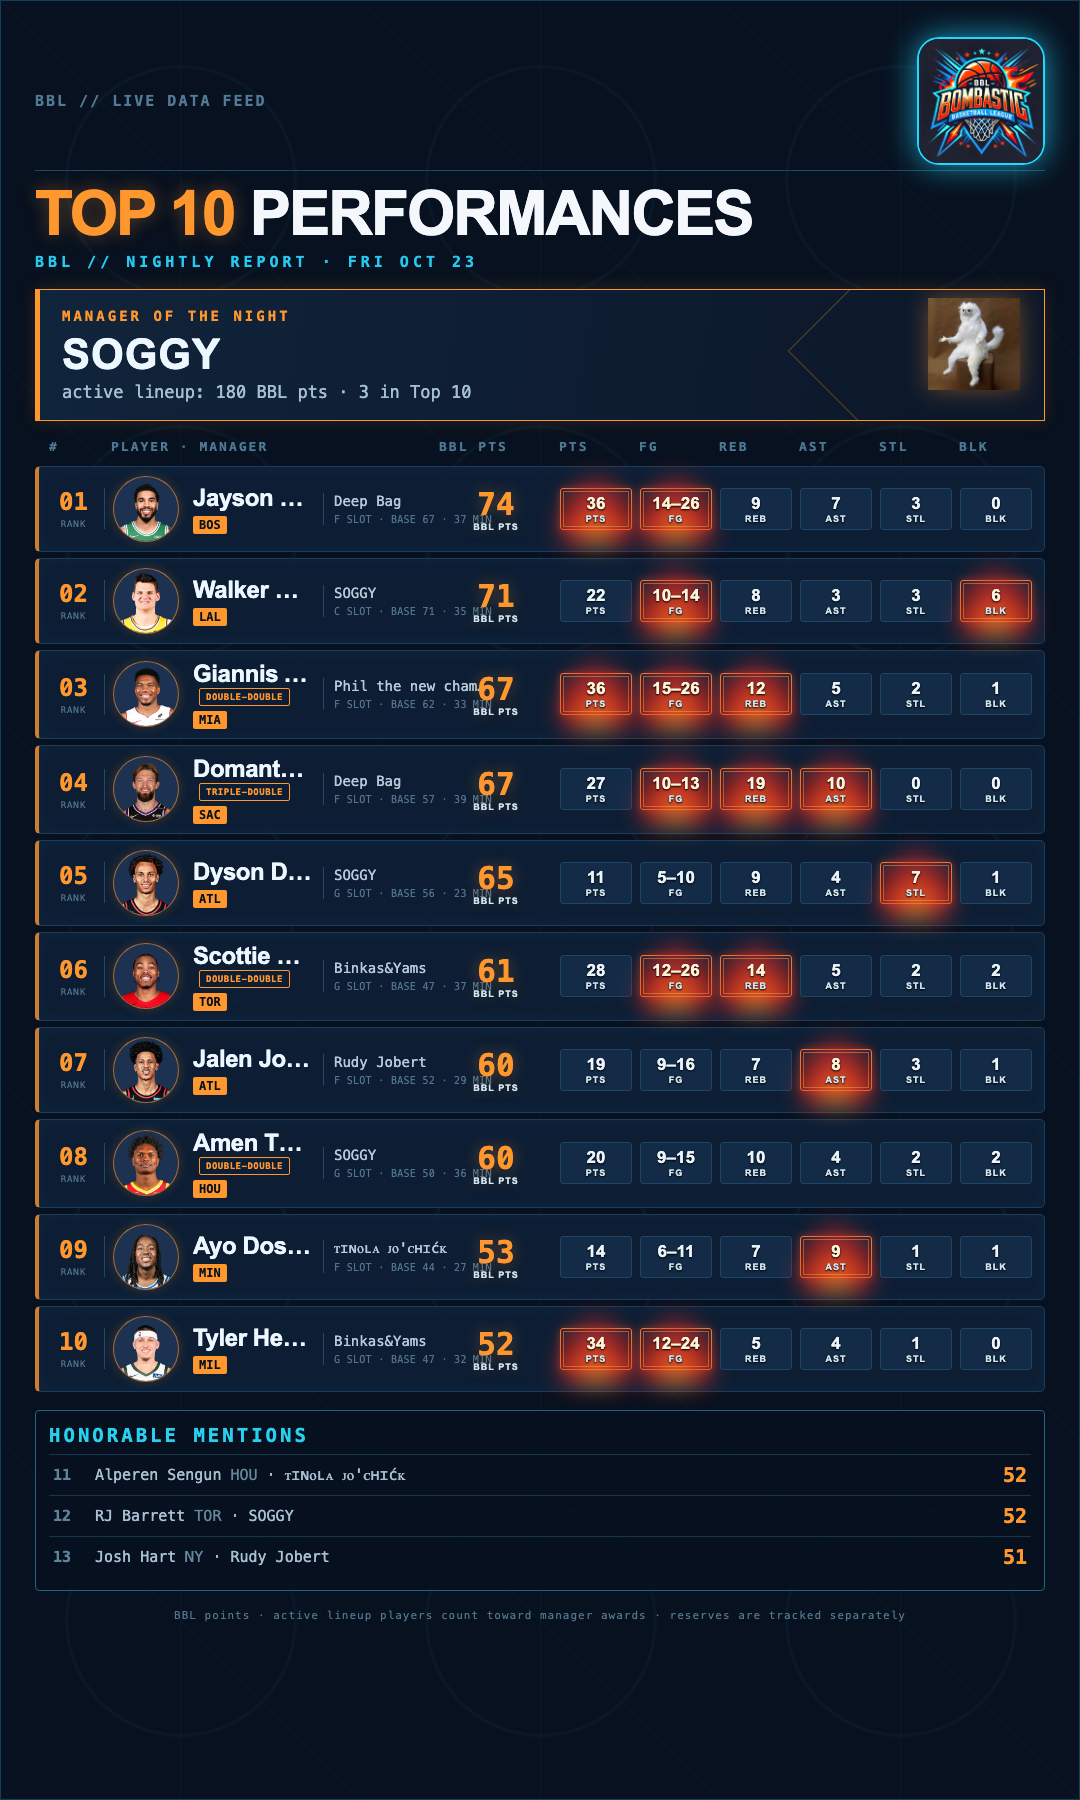
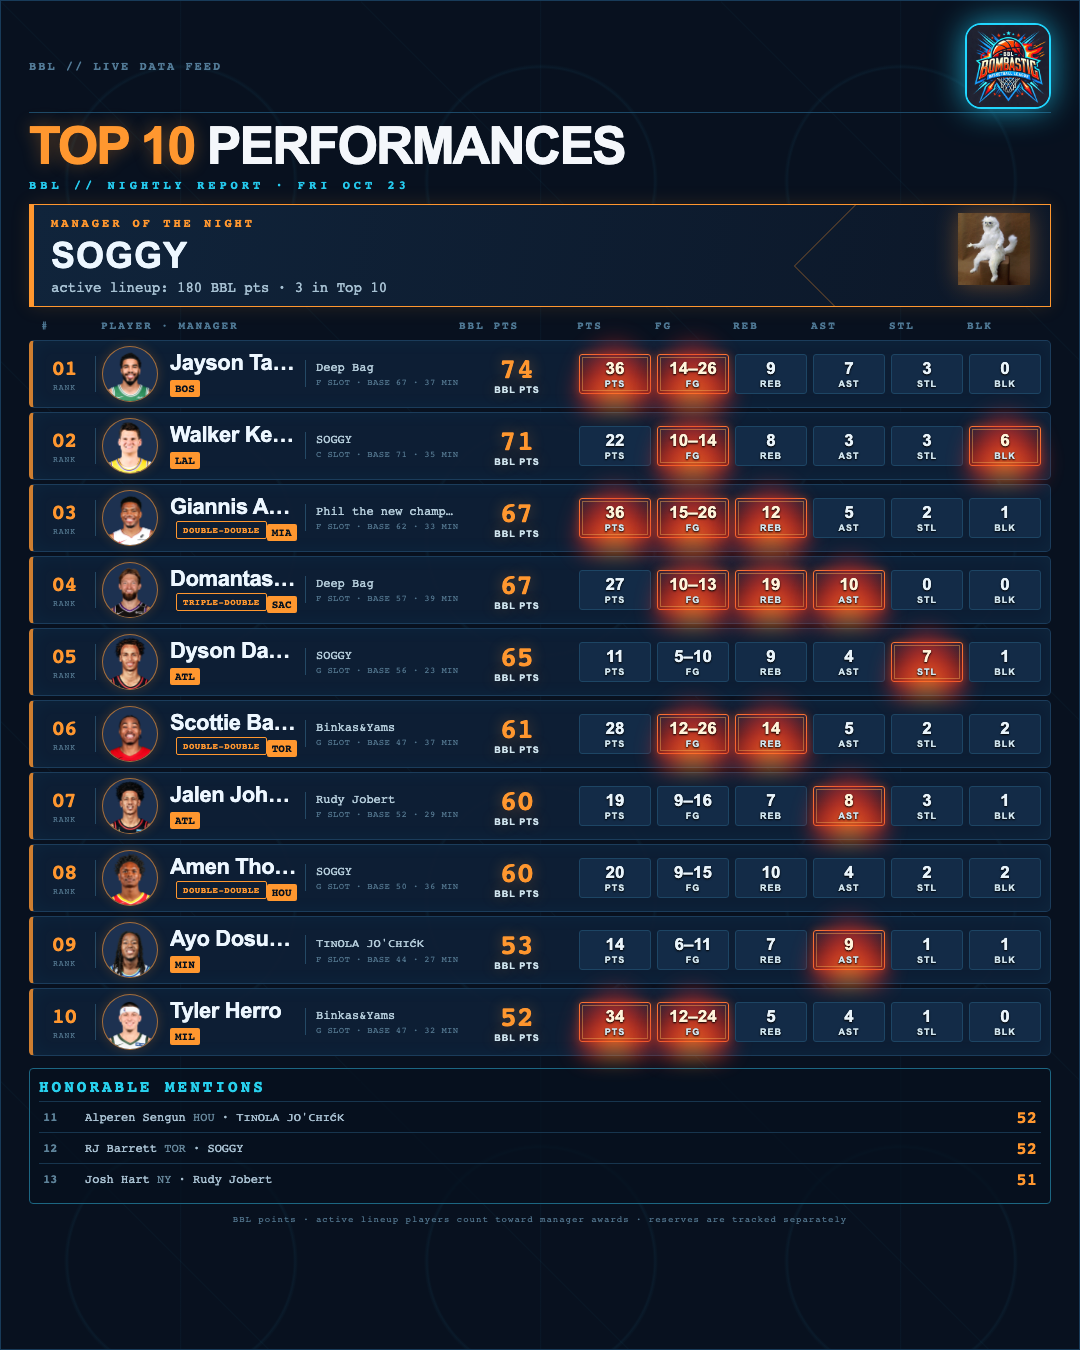
Fit single-column nightly cards to 4:5

diff --git a/bbl/social_cards.py b/bbl/social_cards.py
@@ -150,7 +150,16 @@ h1{{font-size:62px;line-height:.9;margin:0;color:#f4f7fb;letter-spacing:-2px;tex
 .who{{display:grid;grid-template-columns:70px minmax(120px,1fr) 165px;gap:10px;align-items:center;min-width:0}}.who b{{display:block;font-size:24px;letter-spacing:-.4px;white-space:nowrap;overflow:hidden;text-overflow:ellipsis}}.headshot{{width:66px;height:66px;object-fit:cover;border-radius:50%;background:#1d3150;border:1px solid {accent}99;box-shadow:0 0 12px {accent}33}}.headshot.placeholder{{background:linear-gradient(135deg,#162c47,#0a1627)}}.who .team{{display:inline-block;color:#07111e;background:{accent};border-radius:2px;padding:2px 6px;font:700 12px monospace;margin-top:4px}}.badge{{display:inline-block;margin-left:6px;padding:3px 6px;border:1px solid {accent};border-radius:2px;color:{accent};font:800 9px monospace;letter-spacing:.5px;vertical-align:3px}}.details{{min-width:0;border-left:1px solid #244965;padding-left:10px}}.details small{{display:block;color:#b4ccda;font:14px monospace;white-space:nowrap;overflow:hidden;text-overflow:ellipsis}}.details em{{display:block;color:#52758d;font:10px monospace;font-style:normal;margin-top:5px;letter-spacing:.3px;white-space:nowrap}}
 .score{{color:{accent};font:800 31px monospace;text-align:center;text-shadow:0 0 15px {accent}55}}.score small,.stat small{{display:block;font:8px monospace;color:#7394aa;letter-spacing:1px}}.stat{{position:relative;z-index:1;background:#132b47;border:1px solid #1d4564;border-radius:3px;text-align:center;padding:5px 2px;font:700 16px monospace;overflow:visible;isolation:isolate}}.stat.hot{{border:2px solid #ffad32;box-shadow:0 0 5px #ffb000,0 0 15px #ff4b1f99;color:#fff8dd;background:linear-gradient(180deg,#5b2417,#261925)}}.stat.hot:before{{content:"";position:absolute;z-index:-1;left:-8px;right:-8px;top:-15px;bottom:-9px;background:linear-gradient(150deg,#ffd45a 0 10%,transparent 11% 22%,#ff7a18 23% 35%,transparent 36% 49%,#ff3219 50% 64%,transparent 65% 78%,#ff9b20 79% 90%,transparent 91%);clip-path:polygon(0 100%,3% 54%,16% 68%,18% 20%,29% 52%,42% 0,53% 49%,66% 14%,75% 53%,89% 5%,94% 59%,100% 35%,100% 100%);filter:drop-shadow(0 0 8px #ff4b1f);pointer-events:none}}.stat.hot:after{{content:"";position:absolute;inset:2px;border:1px solid #ffd36b99;background:linear-gradient(180deg,transparent,#ff5a1a33);pointer-events:none}}.stat.cold{{border:2px solid #b9fbff;box-shadow:0 0 6px #b9fbff,0 0 18px #28cfff99;color:#edffff;background:linear-gradient(135deg,#d8ffff 0 4%,#3caed2 6% 12%,#153b5b 13% 82%,#0a223b 83%)}}.stat.cold:before{{content:"";position:absolute;z-index:-1;inset:-7px;background:linear-gradient(135deg,#dfffff,#55e9ff 20%,#135b88 48%,#a9f8ff 72%,#1b719c);clip-path:polygon(0 8%,18% 15%,28% 0,43% 13%,59% 3%,74% 17%,100% 7%,88% 31%,100% 50%,87% 66%,100% 93%,76% 84%,63% 100%,48% 87%,28% 100%,19% 85%,0 94%,11% 69%,0 51%,12% 32%);filter:drop-shadow(0 0 7px #46eaff);pointer-events:none}}.stat.cold:after{{content:"";position:absolute;inset:2px;background:linear-gradient(125deg,transparent 27%,#e7ffff99 28% 31%,transparent 32% 56%,#bdfaff77 57% 60%,transparent 61%);pointer-events:none}}.stat span{{position:relative;z-index:1}}.stat small{{position:relative;z-index:1}}.stat:not(.hot):not(.cold) span{{color:#e9f4fb}}.stat:not(.hot):not(.cold){{color:#fff}}
 .section{{border:1px solid #1c6682;border-radius:4px;margin-top:18px;padding:13px;background:rgba(5,17,31,.72)}}.section h3{{color:#28d0ed;font:700 19px monospace;letter-spacing:3px;margin:0 0 8px}}.mention{{display:grid;grid-template-columns:42px 1fr 70px;align-items:center;border-top:1px solid #17354e;padding:8px 4px;color:#a8c0d1;font:15px monospace}}.mention b{{color:#5e839a}}.mention i{{font-style:normal;color:#66869a}}.mention strong{{color:{accent};text-align:right;font:700 20px monospace}}
-footer{{margin-top:18px;text-align:center;color:#52758d;font:11px monospace;letter-spacing:1px}}
+ footer{{margin-top:18px;text-align:center;color:#52758d;font:11px monospace;letter-spacing:1px}}
+ /* 4:5 single-column mobile composition */
+ #card{{width:1080px;min-height:1350px;padding:18px 28px 16px}}
+ .brand{{height:94px;margin-bottom:10px}}.brand img{{width:86px;height:86px;border-radius:16px}}.feed{{font-size:12px}}
+ h1{{font-size:52px}}.sub{{font-size:12px;margin:8px 0 12px}}
+ .award{{padding:11px 17px;margin-bottom:12px}}.award-logo{{width:72px;height:72px;right:20px;top:8px}}.label{{font-size:12px}}.award h2{{font-size:36px;margin:5px 0 2px}}.award p{{font-size:14px}}
+ .cols{{padding:0 12px 4px;font-size:11px;gap:6px}}.row{{padding:5px 9px;margin:4px 0;gap:6px}}.rank{{font-size:21px}}.rank small{{font-size:8px}}
+ .who{{grid-template-columns:60px minmax(120px,1fr) 150px;gap:8px}}.who b{{font-size:22px}}.headshot{{width:56px;height:56px}}.who .team{{font-size:11px;padding:2px 5px}}.details small{{font-size:12px}}.details em{{font-size:9px;margin-top:3px}}
+ .score{{font-size:28px}}.stat{{padding:4px 2px;font-size:16px}}.stat small{{font-size:8px}}
+ .section{{margin-top:12px;padding:9px}}.section h3{{font-size:16px;margin-bottom:5px}}.mention{{padding:5px 4px;font-size:12px}}.mention strong{{font-size:17px}}footer{{margin-top:10px;font-size:9px}}
 .stat{{font:900 17px Arial,sans-serif;text-shadow:0 1px 2px #000}}.score small,.stat small{{font:900 9px Arial,sans-serif;color:#d0e5ef;letter-spacing:1px}}
 .stat.hot{{border:1px solid #ff7d35;box-shadow:0 0 8px #ff712255;color:#fff4da;background:linear-gradient(180deg,#20243a,#301d25 55%,#4d211d)}}.stat.hot:before{{content:"";position:absolute;z-index:-1;inset:-13px -10px -10px;background:radial-gradient(ellipse at 50% 100%,#ffbd3b 0,#ff5b20 24%,#d82724 45%,transparent 72%);filter:blur(10px);opacity:.8;clip-path:none;border-radius:45% 45% 28% 28% / 70% 70% 25% 25%;transform:scaleY(1.15)}}.stat.hot:after{{content:"";position:absolute;z-index:0;inset:2px;border:1px solid #ffbd5b66;background:linear-gradient(180deg,transparent 35%,#ff542211);clip-path:none;pointer-events:none}}
 .stat.cold{{border:1px solid #8cefff;box-shadow:0 0 8px #59dfff44;color:#eaffff;background:linear-gradient(135deg,#173a5a,#102b47 55%,#0c1c35)}}.stat.cold:before{{content:"";position:absolute;z-index:-1;inset:-9px;background:radial-gradient(ellipse at 50% 50%,#bdfaff 0,#48d8f5 24%,#1680b0 49%,transparent 75%);filter:blur(9px);opacity:.38;clip-path:none;border-radius:12px}}.stat.cold:after{{content:"";position:absolute;z-index:0;inset:2px;border:1px solid #c9fbff66;background:linear-gradient(135deg,#dfffff0d,transparent 45%,#55ddff12);clip-path:none;pointer-events:none}}
